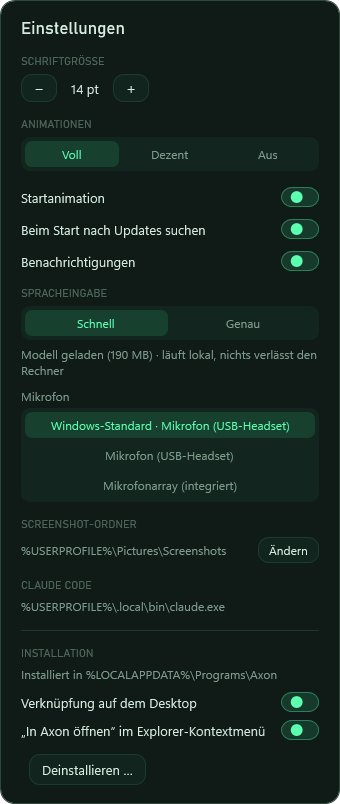
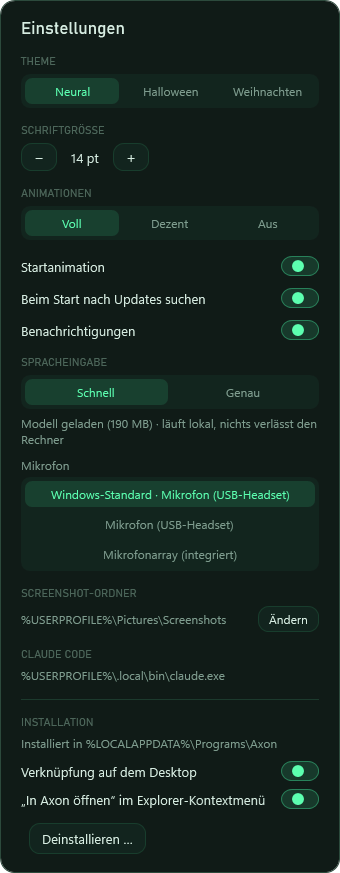
README: Abschnitt zu den drei Themes, neue Screenshots

diff --git a/README.md b/README.md
@@ -7,7 +7,8 @@
 **Claude Code, neu verdrahtet.**
 
 Eine native Windows-App für [Claude Code](https://docs.claude.com/en/docs/claude-code) –
-mit eigenem Terminal, Tabs, Live-Status und einem Hintergrund, der wie ein neuronales Netz lebt.
+mit eigenem Terminal, Tabs, Live-Status und einem lebendigen Hintergrund – als neuronales Netz,
+in einer Halloween-Nacht oder in einer verschneiten Winternacht.
 
 [**⬇ Neueste Version herunterladen**](https://github.com/bytetastic/axon/releases/latest)
 
@@ -36,8 +37,18 @@ funktioniert unverändert. Dein normales `claude` im Terminal bleibt davon unber
 - Während Claude arbeitet, atmet der Hintergrund und ein Lichtschweif umkreist das Terminal
 - Braucht Claude eine Freigabe, färbt sich alles bernsteinfarben; ist Claude fertig, läuft eine Welle durchs Netz
 - Startanimation, drei Animationsstufen (voll, dezent, aus) und flüssig auch auf 144-Hz-Bildschirmen
-- Drei Themes, umschaltbar ohne Neustart: **Neural**, **Halloween** (Mondnacht mit Irrlichtern, Kürbissen und
-  Fledermäusen) und **Weihnachten** (Winternacht mit Nordlicht, Schnee, Christbaum und Rentierschlitten)
+
+### 🎨 Drei Themes
+Umschaltbar in den Einstellungen, ohne Neustart – der Wechsel blendet weich über. Jedes Theme reagiert auf
+die gleichen Zustände, nur auf seine eigene Art:
+
+| | **Neural** | **Halloween** | **Weihnachten** |
+|---|---|---|---|
+| Szene | Neuronales Netz in dunklen Grüntönen | Mondnacht über einem Friedhof | Verschneite Winternacht mit Nordlicht |
+| Lebendig | Lichtimpulse, wachsende Dendriten | Irrlichter, Dornenranken, flackernde Kürbisse, Fledermäuse | Eiskristalle, Tannenzweige mit Ilexbeeren, Schneefall, Sternschnuppen, Rentierschlitten |
+| Claude wartet | alles wird bernsteinfarben | die Spinne seilt sich ab | die Christbaumkugel sinkt herab und leuchtet grün |
+| Claude ist fertig | eine Welle läuft durchs Netz | ein Geist steigt auf | der Stern auf dem Baum flammt auf und sprüht Sternenstaub |
+| Fehler | Korallenrot | Blutmond | das Nordlicht wird rot |
 
 ### 💬 Arbeiten mit Claude
 - **Tabs** – mehrere Sitzungen gleichzeitig, jede mit eigenem Statuspunkt; per Doppelklick für die laufende Sitzung umbenennen
@@ -73,6 +84,17 @@ funktioniert unverändert. Dein normales `claude` im Terminal bleibt davon unber
   <tr>
     <td align="center"><sub>Startseite mit deinen Projekten</sub></td>
     <td align="center"><sub>Claude braucht eine Freigabe – die ganze App zeigt es</sub></td>
+  </tr>
+</table>
+
+<table>
+  <tr>
+    <td width="50%"><img src="docs/screenshots/weihnachten.png" alt="Theme Weihnachten: Winternacht mit Nordlicht, Christbaum und Rentierschlitten vor dem Mond"></td>
+    <td width="50%"><img src="docs/screenshots/halloween.png" alt="Theme Halloween: Mondnacht mit Irrlichtern, Kürbissen und totem Baum"></td>
+  </tr>
+  <tr>
+    <td align="center"><sub>Theme Weihnachten – mit Rentierschlitten vor dem Mond</sub></td>
+    <td align="center"><sub>Theme Halloween</sub></td>
   </tr>
 </table>
 
@@ -121,6 +143,7 @@ Alle Axon-Kürzel nutzen Strg+**Umschalt**, damit Claude Codes eigene Kürzel fr
 | Strg+Umschalt+W | Tab schließen |
 | Strg+Tab / Strg+Umschalt+Tab | Tab wechseln |
 | Strg+Umschalt+B | Projekte ein- und ausblenden |
+| Strg+Umschalt+J | Seitenleiste: zwischen Projekten und Chats wechseln |
 | Strg+Umschalt+S | Letzten Screenshot einfügen |
 | Strg+Umschalt+Leertaste | Spracheingabe starten / beenden |
 | Shift+Enter | Neue Zeile in der Eingabe |
